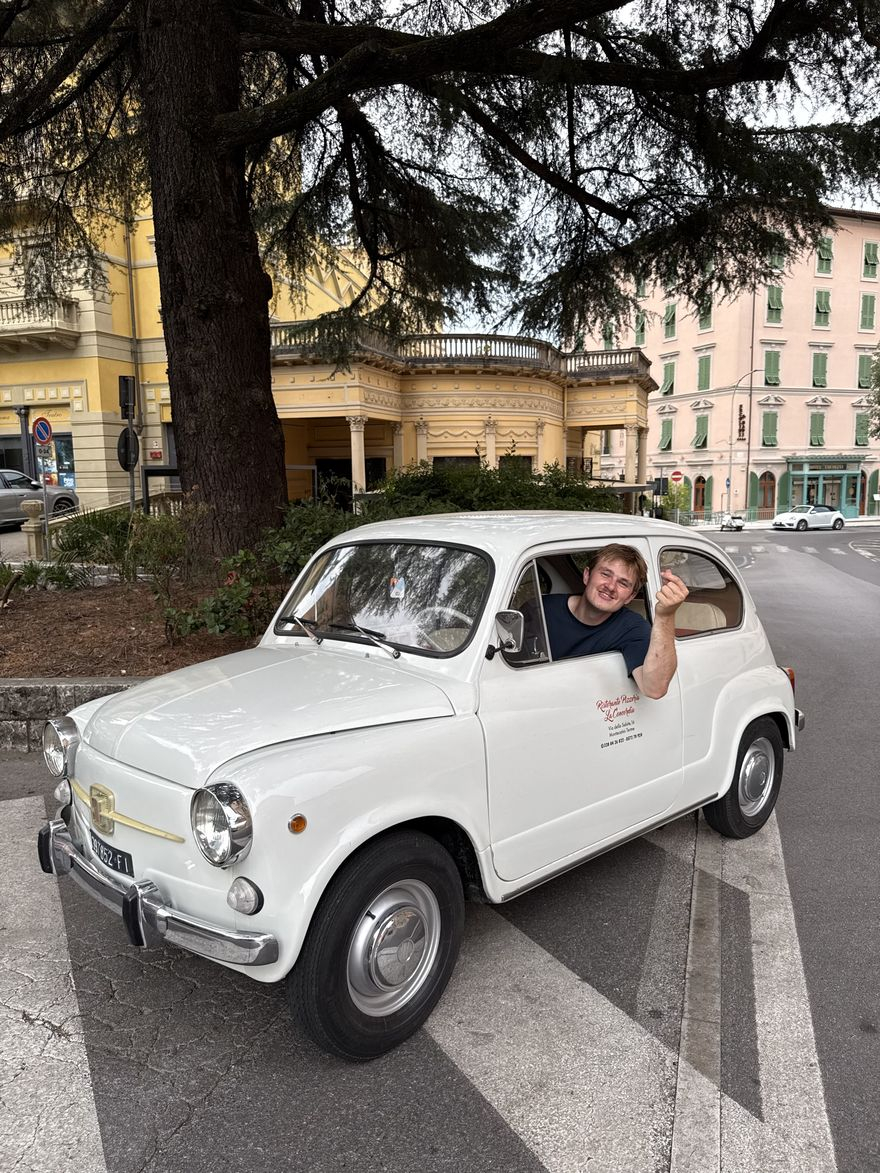
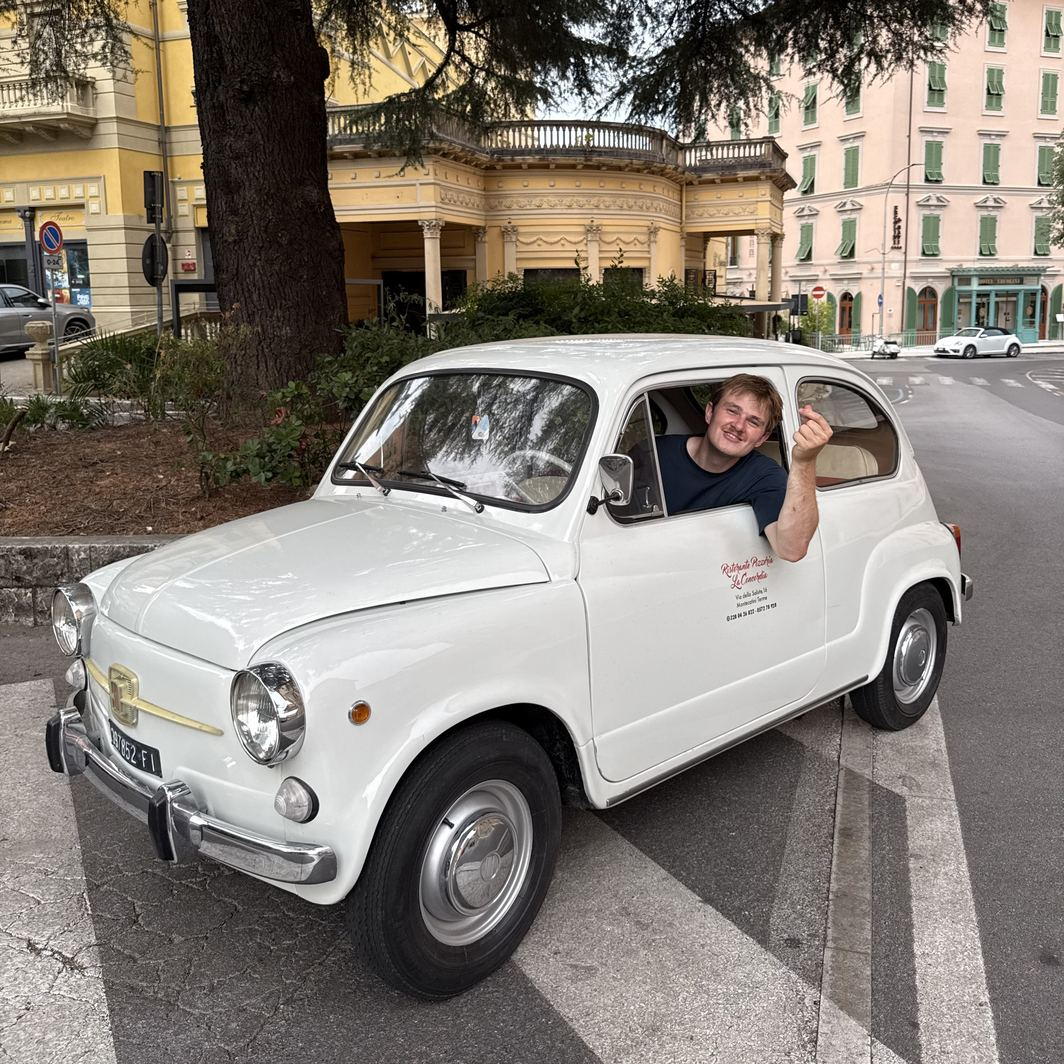
Hero spans the text column, and open with a thank you
The photo sat at 440px inside a 532px text column, so it floated in the middle
of the page instead of sitting on the column. It now matches the column exactly,
left and right edges flush with the paragraphs, from a 1064px source for 2x.

Crop is 20 percent off the top and 5 off the bottom of IMG_4681, which makes it
square.

The email opens on a thank you rather than on housekeeping, and the same line
is the preheader, so it reaches someone who reads the inbox list and never
opens.

diff --git a/src/lib/email/welcome.ts b/src/lib/email/welcome.ts
@@ -41,7 +41,7 @@ export function renderWelcome({ unsubscribeToken, postCount }: Welcome): string 
     .hero{width:100%!important;height:auto!important}
   }
 </style></head><body style="margin:0;padding:0;background:${T.page};">
-<div style="display:none;max-height:0;overflow:hidden;opacity:0;">One email a month, and this is the only one you will get until the next one.${'&#8203;&nbsp;'.repeat(60)}</div>
+<div style="display:none;max-height:0;overflow:hidden;opacity:0;">A huge thank you for signing up. Here is what you signed up for.${'&#8203;&nbsp;'.repeat(60)}</div>
 
 <table role="presentation" width="100%" cellpadding="0" cellspacing="0" border="0" style="background:${T.page};">
 <tr><td align="center" style="padding:26px 10px 30px;">
@@ -66,14 +66,14 @@ export function renderWelcome({ unsubscribeToken, postCount }: Welcome): string 
   <tr><td class="p" style="padding:24px 34px 22px;">
     <h1 class="big" style="margin:0 0 12px;font-family:${FONT};font-size:37px;line-height:1.08;letter-spacing:-.038em;color:${T.ink};font-weight:800;">You are <span style="font-family:${SERIF};font-style:italic;font-weight:400;letter-spacing:-.01em;">in</span></h1>
     <p style="margin:0;font-family:${FONT};font-size:16px;line-height:1.65;color:${T.body};">
-      Thanks for confirming. That is the admin over with, so here is what you
-      actually signed up for.
+      A huge thank you for signing up. Handing someone your inbox is not
+      nothing, and I do not take it lightly. Here is what you signed up for.
     </p>
   </td></tr>
 
-  <tr><td align="center" style="padding:0 34px 26px;">
-    <img class="hero" src="${IMG}/welcome-hero.jpg" width="440" alt="Dirck Mulder"
-         style="display:block;width:440px;max-width:100%;height:auto;border:0;border-radius:14px;">
+  <tr><td class="p" style="padding:0 34px 26px;">
+    <img class="hero" src="${IMG}/welcome-hero.jpg" width="532" alt="Dirck Mulder"
+         style="display:block;width:532px;max-width:100%;height:auto;border:0;border-radius:14px;">
   </td></tr>
 
   <tr><td class="p" style="padding:0 34px 8px;font-family:${FONT};font-size:16px;line-height:1.7;color:${T.body};">
@@ -144,7 +144,7 @@ export function renderWelcomeText({ unsubscribeToken, postCount }: Welcome): str
   return [
     'YOU ARE IN',
     '',
-    'Thanks for confirming. That is the admin over with, so here is what you actually signed up for.',
+    'A huge thank you for signing up. Handing someone your inbox is not nothing, and I do not take it lightly. Here is what you signed up for.',
     '',
     'I build web and mobile things, mostly on my own, and I write up the parts that were harder than they looked.',
     '',
